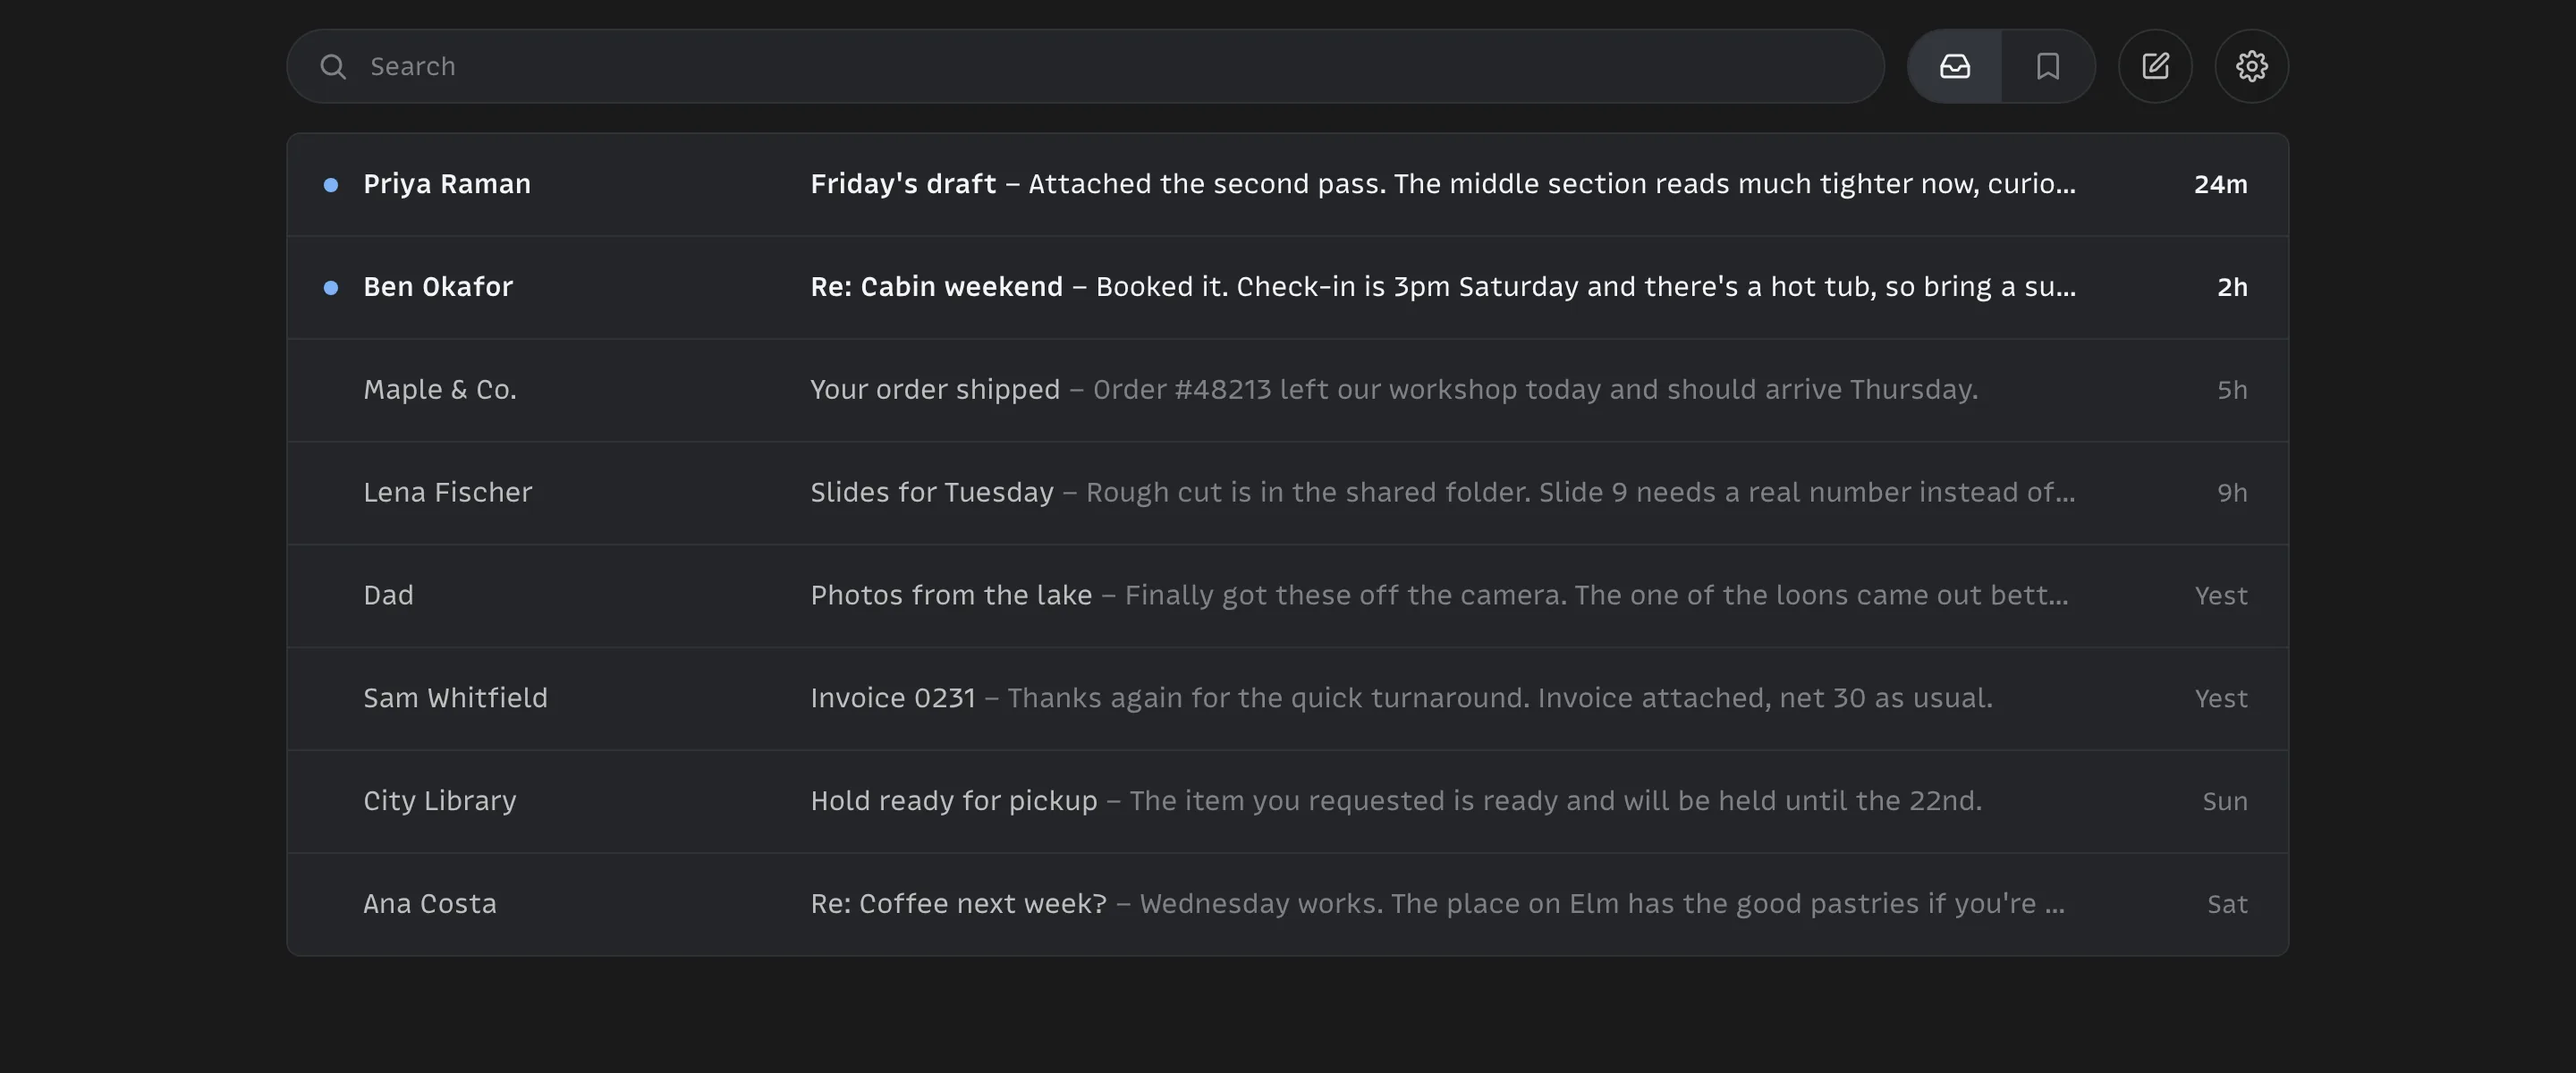
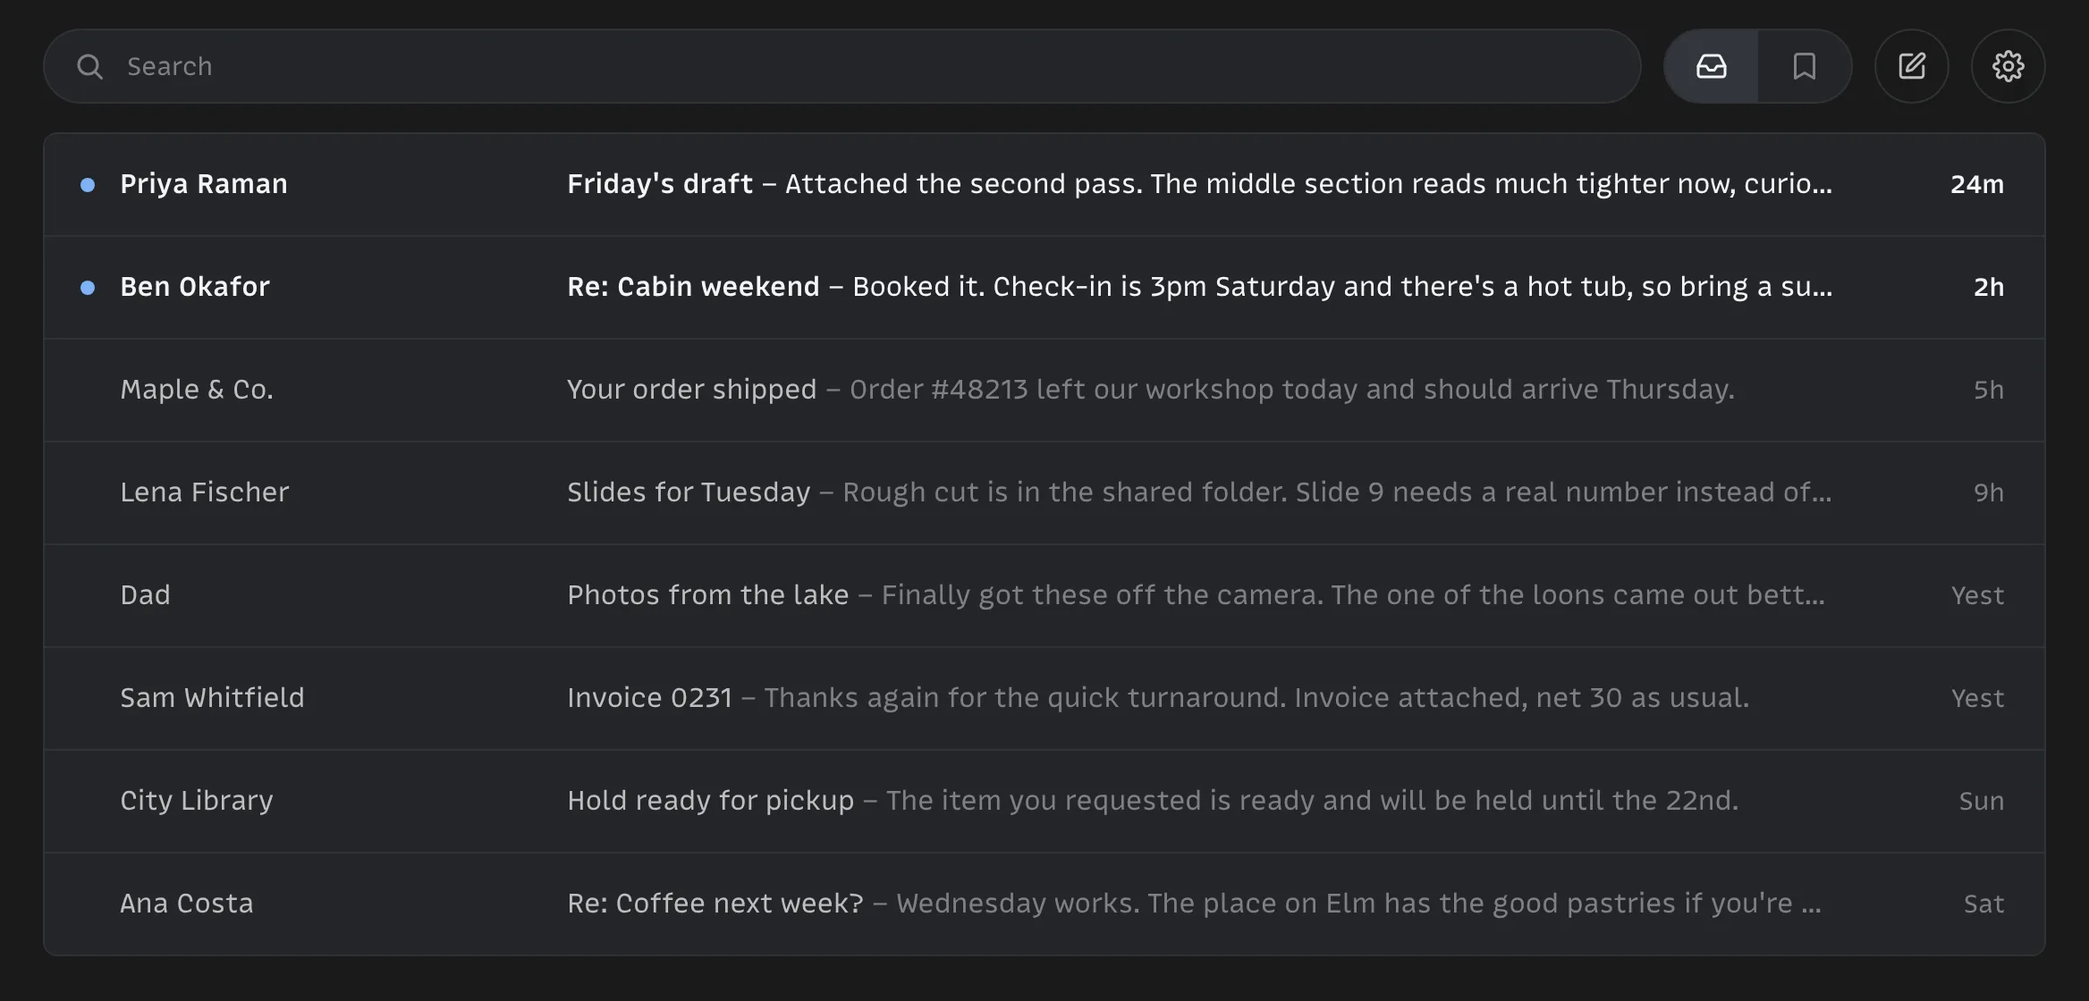
Crop the desktop screenshot to its content
The screenshot carried the app's side margins, which read as dead
space beside the mail list. It's now cropped to the list and toolbar
with a small margin.

diff --git a/index.html b/index.html
@@ -1212,8 +1212,8 @@
           <img
             src="desktop/desktop-inbox.webp"
             alt="Emma on a Mac: a dark inbox with a handful of threads, a search field, and the compose and settings buttons"
-            width="1440"
-            height="600"
+            width="1168"
+            height="560"
             loading="lazy"
           />
         </div>

diff --git a/desktop/index.html b/desktop/index.html
@@ -637,8 +637,8 @@
         <img
           src="desktop-inbox.webp"
           alt="Emma on a Mac: a dark inbox with a handful of threads, a search field, and the compose and settings buttons"
-          width="1440"
-          height="600"
+          width="1168"
+          height="560"
         />
       </div>
 
